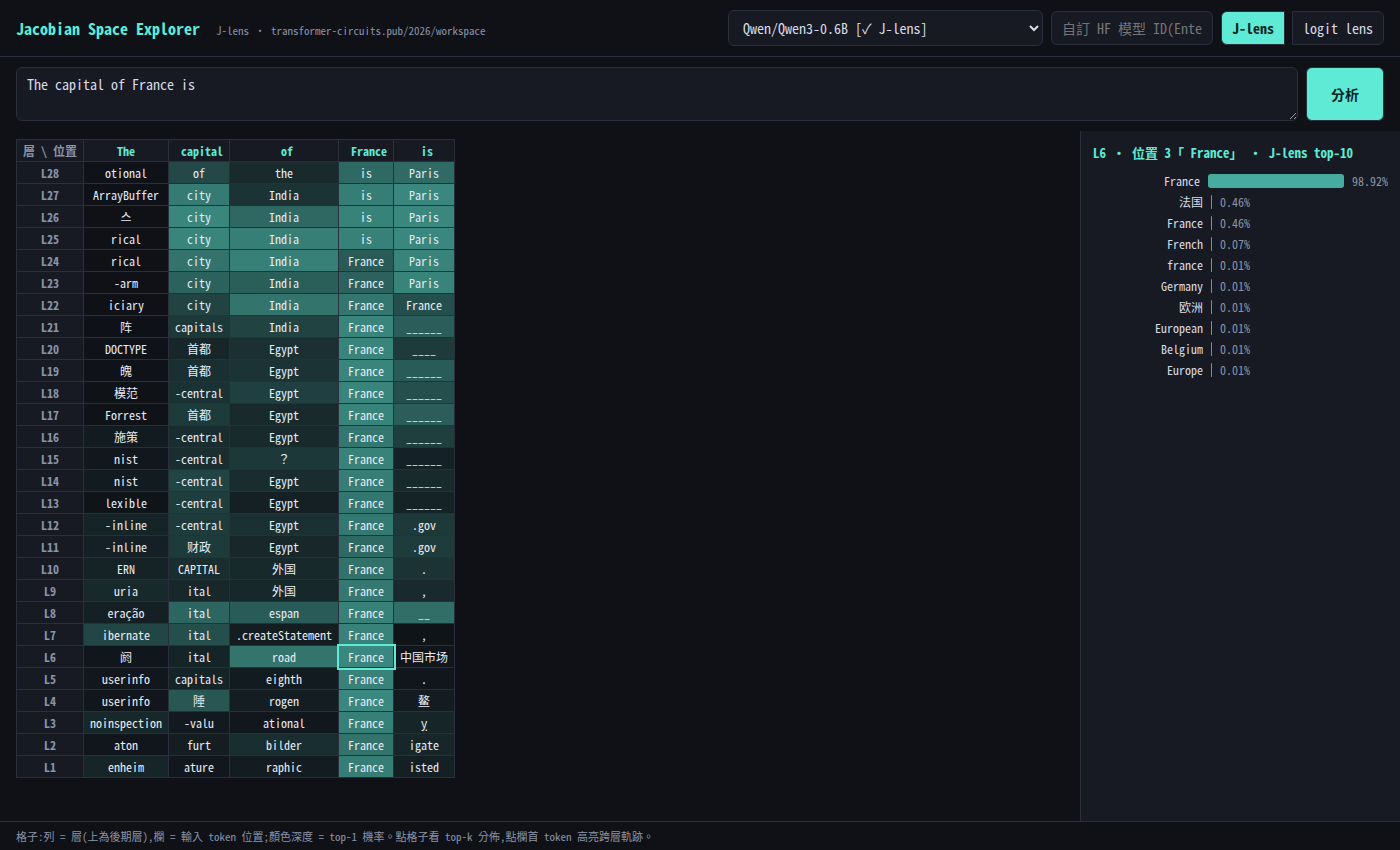
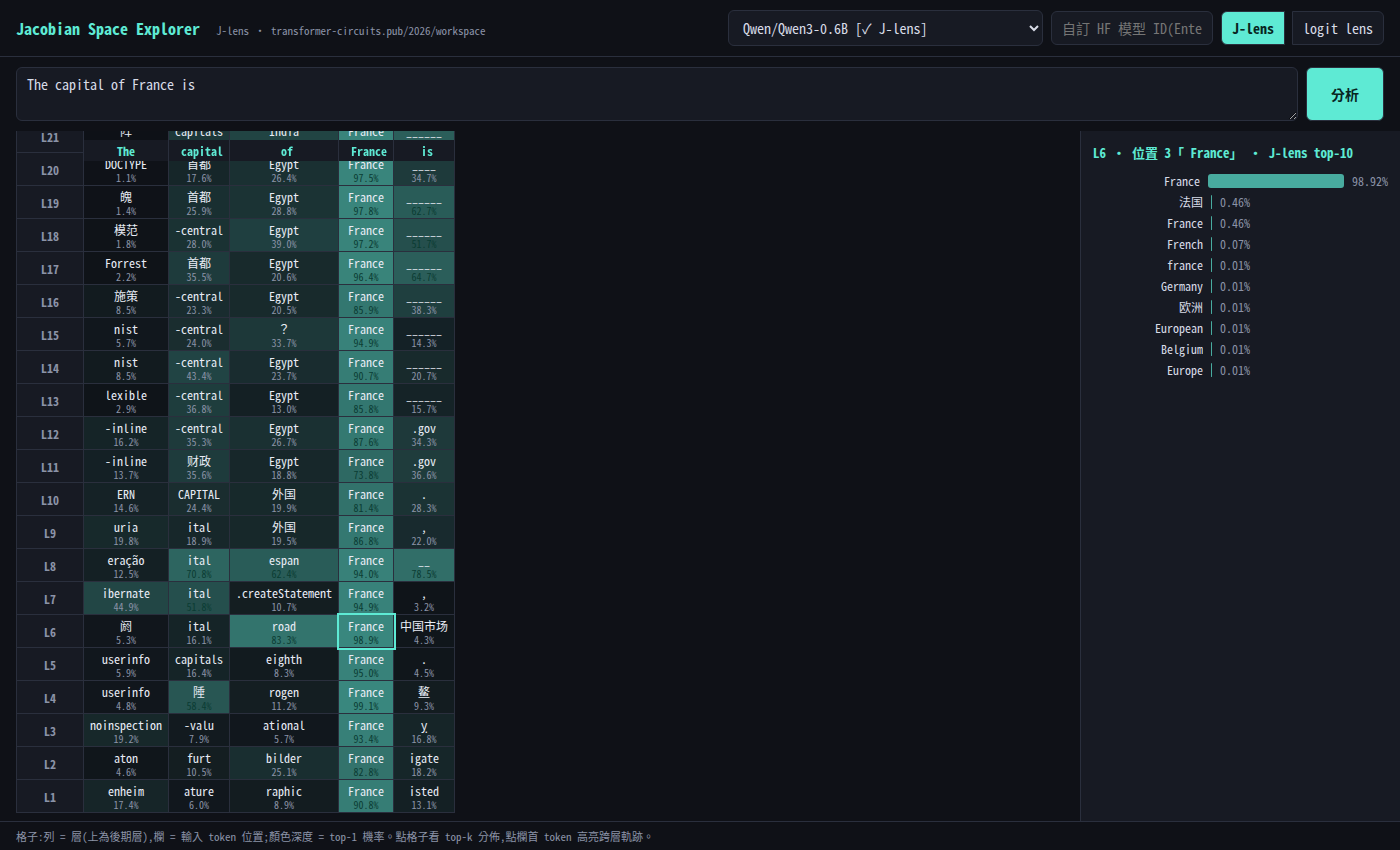
格子每格顯示 top-1 token 的機率百分比

Changed region(s): [[0.0, 0.1529, 0.3379, 0.9788]]

diff --git a/web/app.js b/web/app.js
@@ -142,8 +142,13 @@ function renderGrid() {
     g[l].forEach((cell, pos) => {
       const td = document.createElement("td");
       const top = cell[0];
-      td.textContent = top.token.trim() || "␣";
+      const tok = Object.assign(document.createElement("div"), { className: "cell-tok" });
+      tok.textContent = top.token.trim() || "␣";
+      const prob = Object.assign(document.createElement("div"), { className: "cell-p" });
+      prob.textContent = top.p >= 0.001 ? (top.p * 100).toFixed(1) + "%" : "<0.1%";
+      td.append(tok, prob);
       td.style.background = `rgba(94, 234, 212, ${Math.min(top.p, 1) * 0.55})`;
+      if (top.p > 0.5) td.classList.add("strong");
       td.title = `L${l + 1} pos ${pos}: "${top.token}" p=${top.p}`;
       td.dataset.layer = l; td.dataset.pos = pos;
       td.onclick = () => selectCell(l, pos, td);

diff --git a/web/style.css b/web/style.css
@@ -49,6 +49,9 @@ table.grid { border-collapse: collapse; }
 .grid th.tok { background: var(--panel); color: var(--accent); position: sticky; top: 0; cursor: pointer; z-index: 2; }
 .grid th.layer { background: var(--panel); color: var(--dim); position: sticky; left: 0; z-index: 1; }
 .grid td { cursor: pointer; color: #e8ecf5; }
+.grid td .cell-tok { white-space: pre; overflow: hidden; text-overflow: ellipsis; }
+.grid td .cell-p { font-size: 10px; color: var(--dim); line-height: 1.1; }
+.grid td.strong .cell-p { color: #0b3c33; }
 .grid td:hover { outline: 1px solid var(--accent); }
 .grid td.selected { outline: 2px solid var(--accent); }
 .grid td.col-hi, .grid th.col-hi { box-shadow: inset 0 0 0 100px rgba(var(--hot), .08); }